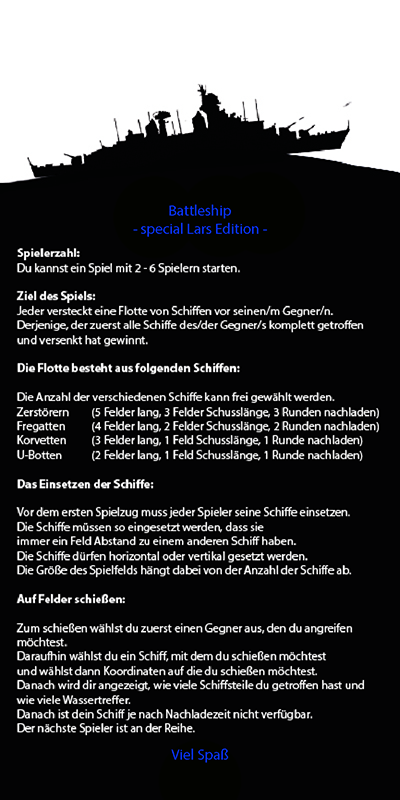
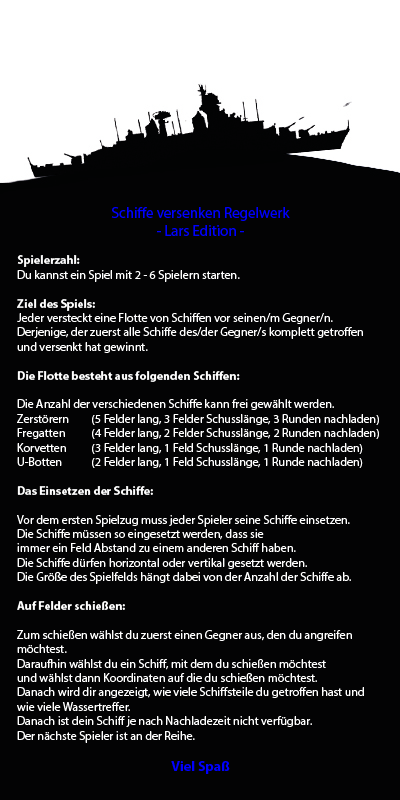
instructions in schön wieder dabei :)

Changed region(s): [[0.03, 0.25, 0.96, 0.9688], [0.72, 0.1562, 0.75, 0.1875]]

diff --git a/GUI_Project/src/Main/Main_View.java b/GUI_Project/src/Main/Main_View.java
@@ -16,6 +16,7 @@ public class Main_View extends JFrame{
 	private JLabel welcome_text;
 	private JButton newGame;
 	private JButton loadGame;
+	private JButton instructions;
 	private int width;
 	private int height;
 	private int selection = 0;
@@ -33,6 +34,14 @@ public class Main_View extends JFrame{
 		this.welcomeTextIcon = "Resources/welcomeText.png";
 		changeShownPan("welcomePan");
 		doStartAnim();
+	}
+
+	public ImagePanel getWelcomePan() {
+		return welcomePan;
+	}
+
+	public void setWelcomePan(ImagePanel welcomePan) {
+		this.welcomePan = welcomePan;
 	}
 
 	private void initFrame(){
@@ -55,7 +64,7 @@ public class Main_View extends JFrame{
 		this.setButtons();
 		this.welcomePan.repaint();
 
-		this.cards.add(welcomePan);
+		this.cards.add(this.welcomePan);
 	}
 
 	public void addPanel(JPanel panel, String name){
@@ -108,9 +117,21 @@ public class Main_View extends JFrame{
 
 		this.loadGame.setBorderPainted(false);
 		this.loadGame.setVisible(true);
+		
+		this.instructions = new JButton();
+		this.instructions.setIcon(new ImageIcon("Resources/instructions.png"));
+		this.instructions.setBounds((this.width-buttonWidth)/2, 350, buttonWidth, 100);
+		this.instructions.setOpaque(false);
+		this.instructions.setContentAreaFilled(false);
+		this.instructions.setBorderPainted(false);
+		this.instructions.setVisible(true);
+		
+		
+		
 
 		this.welcomePan.add(this.newGame);
 		this.welcomePan.add(this.loadGame);
+		this.welcomePan.add(this.instructions);
 
 	}
 
@@ -166,7 +187,7 @@ public class Main_View extends JFrame{
 	}
 
 	public void setInstructionsSelectionListener(ActionListener l){
-		
+		this.instructions.addActionListener(l);
 	}
 
 }

diff --git a/GUI_Project/src/Main/Instructions.java b/GUI_Project/src/Main/Instructions.java
@@ -1,8 +1,10 @@
 package Main;
 
 import java.awt.Color;
+import java.awt.Dimension;
 import java.awt.Font;
 import java.awt.Label;
+import java.awt.Toolkit;
 import java.io.File;
 
 import javax.imageio.ImageIO;
@@ -15,14 +17,7 @@ import javax.swing.JPanel;
 	public class Instructions {
 		
 		private JFrame frame;
-		private JPanel panel;
 		private Label instructions;
-		private JLabel bild;
-		private Icon background;
-		
-		
-		private int width = 400;
-		private int heigth = 600;
 		
 		
 		public Instructions(){
@@ -32,8 +27,12 @@ import javax.swing.JPanel;
 		}
 		
 		private void initFrame(){
+			Dimension screenWidth = Toolkit.getDefaultToolkit().getScreenSize();
+			double width = screenWidth.getWidth() - 400;
+			
+			
 			this.frame = new JFrame("Instructions");
-			this.frame.setLocation(0, 0);
+			this.frame.setLocation((int) width, 0);
 			String currentDirectory = System.getProperty("user.dir");
 			try{
 				this.frame.setContentPane(new JLabel(new ImageIcon(ImageIO.read(new File(currentDirectory + "/Resources/Panel.png")))));

diff --git a/GUI_Project/src/Game/Options.java b/GUI_Project/src/Game/Options.java
@@ -7,6 +7,8 @@ import javax.swing.JCheckBox;
 import javax.swing.JComboBox;
 import javax.swing.JPanel;
 
+import Main.Main_View;
+
 
 public class Options implements Serializable{
 	/**
@@ -158,6 +160,7 @@ public class Options implements Serializable{
 		this.optionsView.setKiSelectionListener(new SetKiListener());
 		this.optionsView.setShipsSelectionListener(new SetShipsListener() );
 		this.optionsView.setSizeSelectionListener(new SetSizeListener() );
+		this.optionsView.setBackSelectionListener(new BackListener());
 		}
 
 	/**
@@ -187,5 +190,14 @@ public class Options implements Serializable{
 			int size = Integer.parseInt( sizeBox.getSelectedItem().toString() );
 			setSize(size);
 		}
+	}
+	
+	private class BackListener implements ActionListener{
+
+		public void actionPerformed(ActionEvent e) {
+			
+			
+		}
+		
 	}
 }

diff --git a/GUI_Project/src/Game/Options_View.java b/GUI_Project/src/Game/Options_View.java
@@ -238,4 +238,8 @@ public class Options_View {
 	public void setOkSelectionListener(ActionListener o){
 		this.ok.addActionListener(o);
 	}
+	
+	public void setBackSelectionListener(ActionListener b){
+		this.back.addActionListener(b);
+	}
 }
